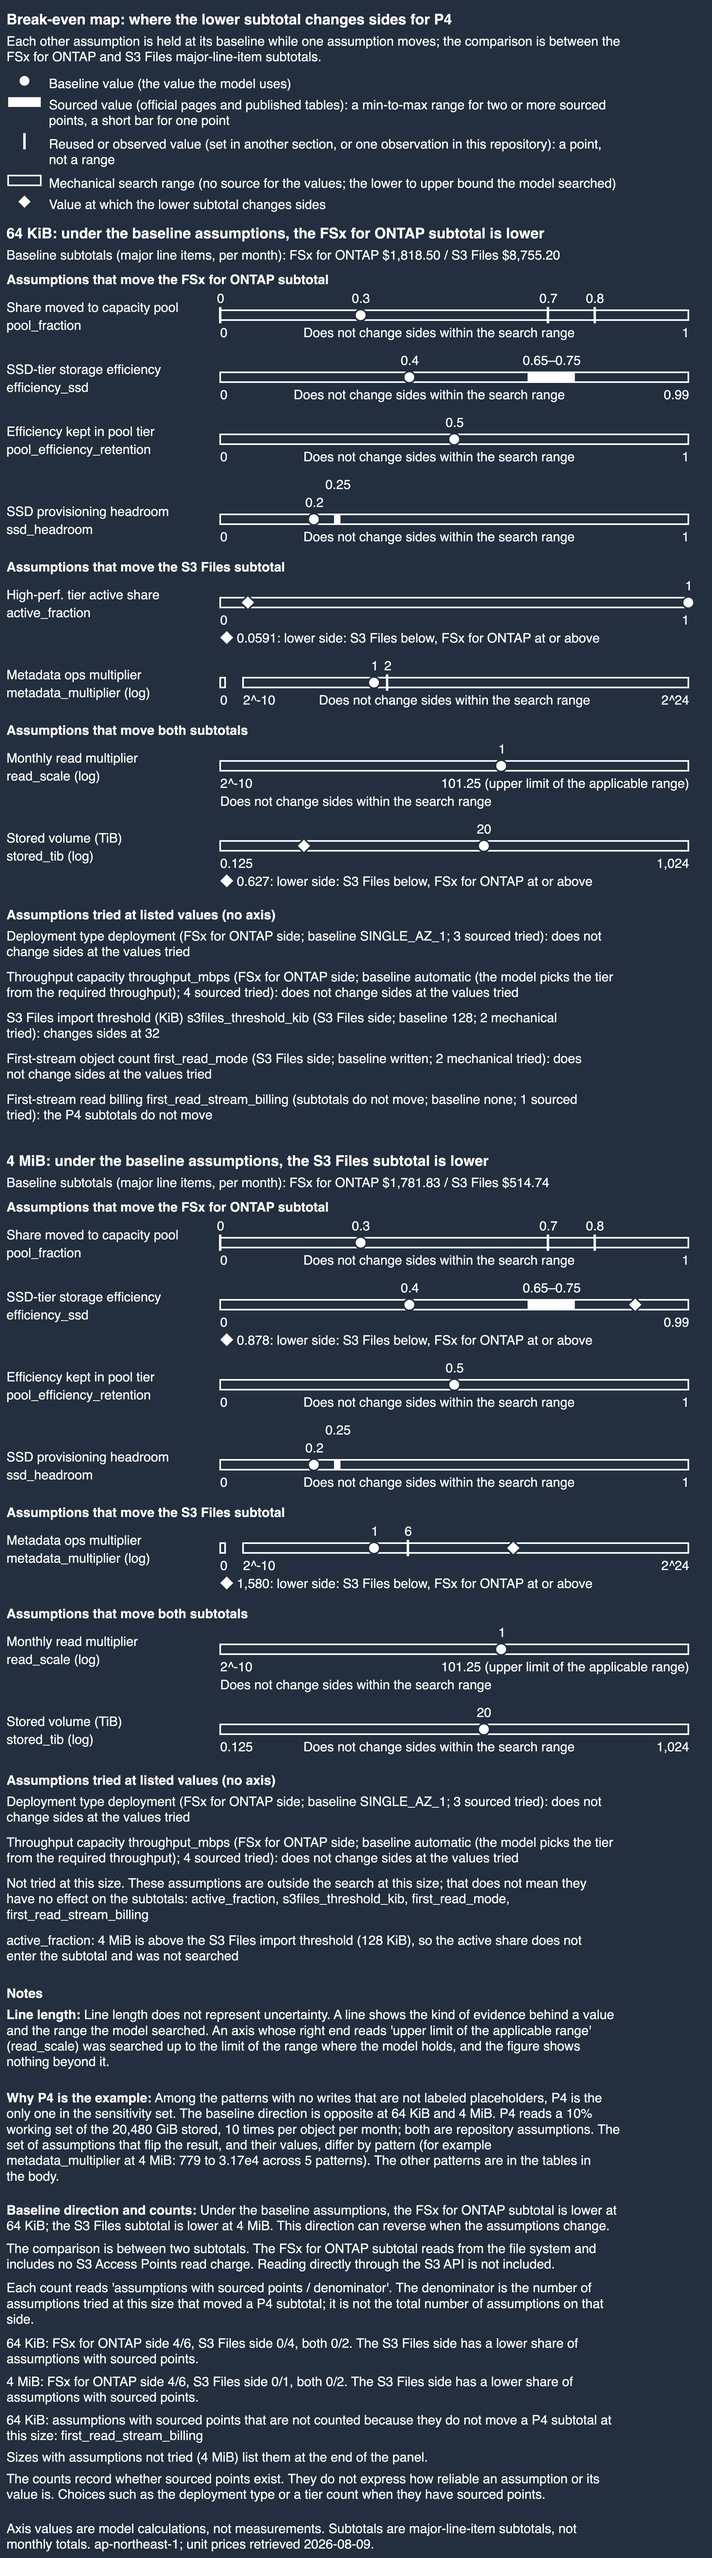
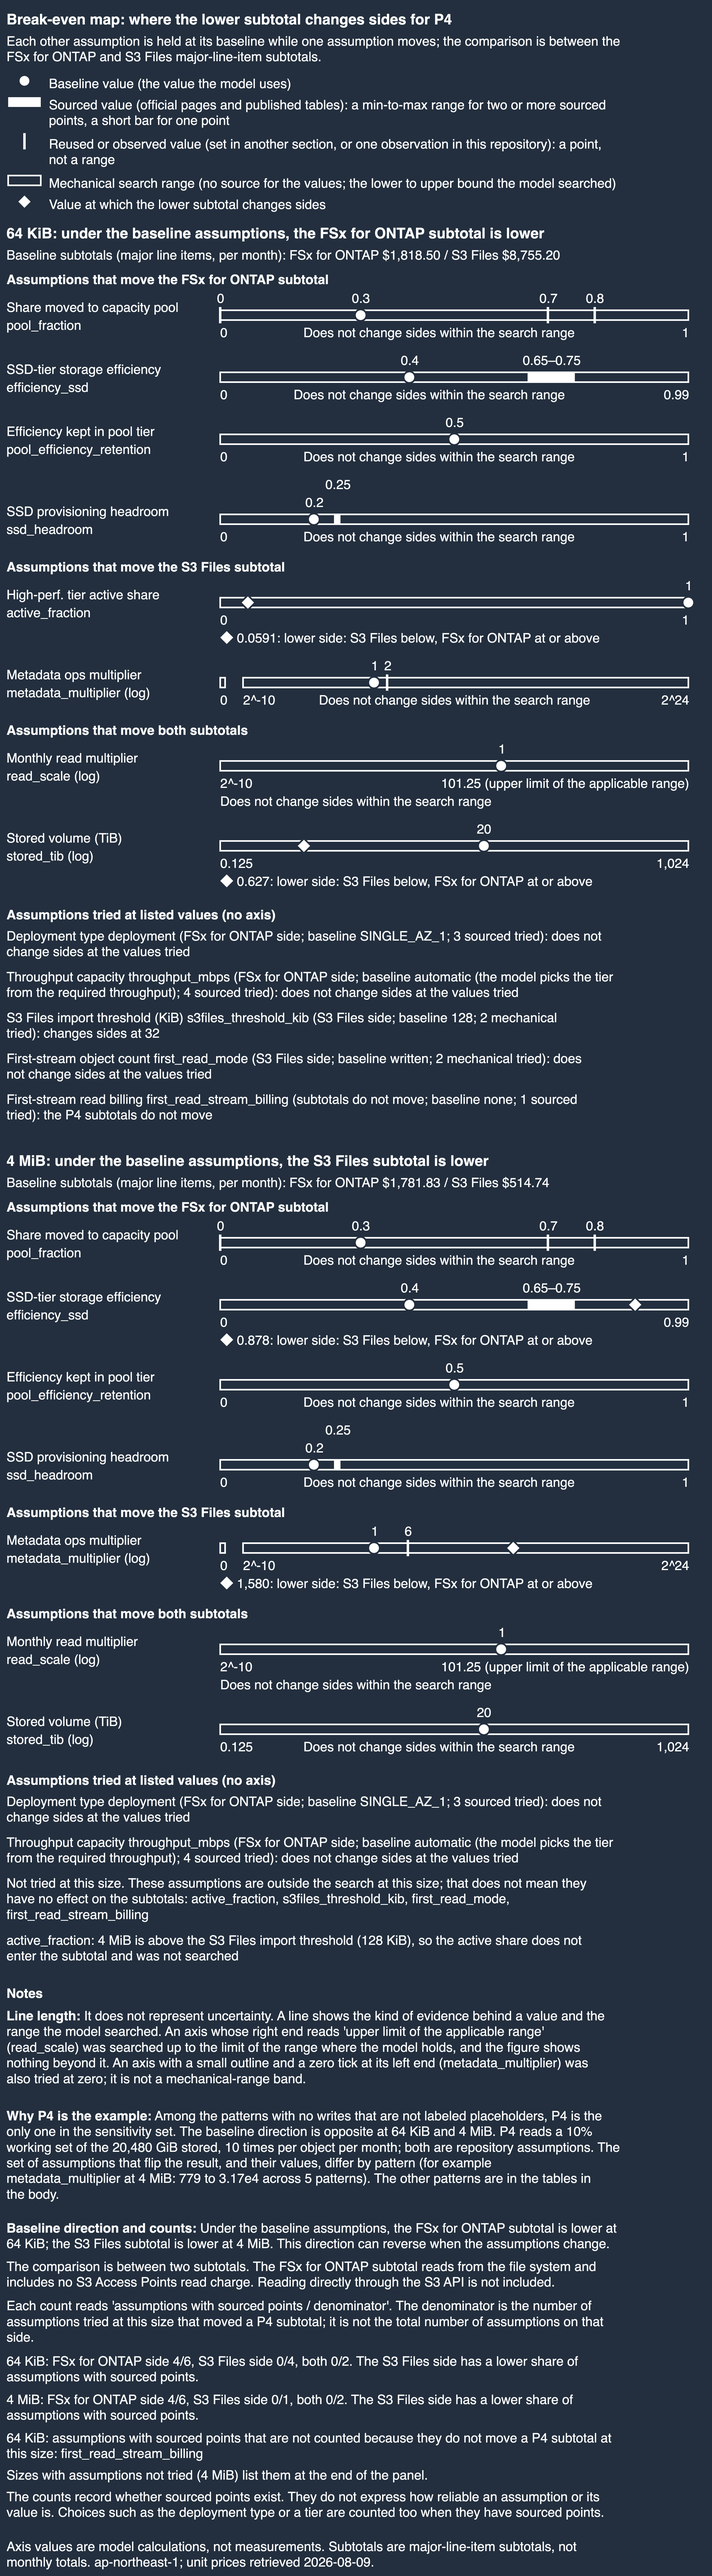
fix: complete EN note sentence and explain zero tick in map
The EN counts note ended without a verb. Reword it, drop the repeated
phrase in the line-length note, shorten the JA subtitle so it no longer
wraps one character, and say in the notes what the zero tick means.

diff --git a/tools/build_breakeven_map.py b/tools/build_breakeven_map.py
@@ -97,7 +97,7 @@ TEXT_NUMBER_ALLOWLIST = {
 TEXT: dict[str, dict[str, str]] = {
     "ja": {
         "title": "損益分岐の地図: P4 の小計の高低が入れ替わる前提の位置",
-        "subtitle": "他の前提を基準に固定し、1 つの前提だけを動かしたときの、FSx for ONTAP と S3 Files の主要費目小計の比較です。",
+        "subtitle": "他の前提は基準に固定し、1 つだけ動かして、FSx for ONTAP と S3 Files の主要費目小計を比べます。",
         "leg_dot": "基準の値（モデルが置いた値）",
         "leg_src": "出典のある値（公式ページ・公表表）。出典の点が 2 つ以上なら最小〜最大の範囲、1 点なら範囲でなく点（短い太線）",
         "leg_pt": "再利用または観測の値（別の節が置いた値、このリポジトリの 1 回の観測）。範囲ではなく点",
@@ -134,6 +134,7 @@ TEXT: dict[str, dict[str, str]] = {
         "notes_head": "注",
         "n1_lead": "線の長さ:",
         "n1": " 線の長さは不確かさの大きさを表しません。線は、値に付いた根拠の種類と、モデルが探索した範囲を示します。",
+        "n1_zero": " 左端に小さな輪郭とゼロの目盛が付いた軸（{axes}）は、値ゼロも試したことを示します。機械的な範囲の帯ではありません。",
         "n1_limit": " 右端に「適用範囲の上限」と付いた軸（{axes}）は、モデルが成り立つ範囲の上限までを探索しており、その先の向きは示していません。",
         "n2_lead": "P4 を例に選んだ理由:",
         "n2": " 書き込みがなく、仮置きと明記されていないパターンのうち、感度の対象にあるのは P4 だけです。",
@@ -195,7 +196,8 @@ TEXT: dict[str, dict[str, str]] = {
         "key_join": ", ",
         "notes_head": "Notes",
         "n1_lead": "Line length:",
-        "n1": " Line length does not represent uncertainty. A line shows the kind of evidence behind a value and the range the model searched.",
+        "n1": " It does not represent uncertainty. A line shows the kind of evidence behind a value and the range the model searched.",
+        "n1_zero": " An axis with a small outline and a zero tick at its left end ({axes}) was also tried at zero; it is not a mechanical-range band.",
         "n1_limit": " An axis whose right end reads 'upper limit of the applicable range' ({axes}) was searched up to the limit of the range where the model holds, and the figure shows nothing beyond it.",
         "n2_lead": "Why P4 is the example:",
         "n2": " Among the patterns with no writes that are not labeled placeholders, P4 is the only one in the sensitivity set.",
@@ -215,7 +217,7 @@ TEXT: dict[str, dict[str, str]] = {
         "n3_less": ". The S3 Files side has a lower share of assumptions with sourced points",
         "n3_excl": "{size}: assumptions with sourced points that are not counted because they do not move a P4 subtotal at this size: {keys}",
         "n3_notried": "Sizes with assumptions not tried ({sizes}) list them at the end of the panel.",
-        "n3_meaning": "The counts record whether sourced points exist. They do not express how reliable an assumption or its value is. Choices such as the deployment type or a tier count when they have sourced points.",
+        "n3_meaning": "The counts record whether sourced points exist. They do not express how reliable an assumption or its value is. Choices such as the deployment type or a tier are counted too when they have sourced points.",
         "foot": "Axis values are model calculations, not measurements. Subtotals are major-line-item subtotals, not monthly totals. {region}; unit prices retrieved {snap}.",
         "val_join": ", ",
     },
@@ -1012,10 +1014,18 @@ class Builder:
             for key in p.axis_keys:
                 if p.truncated(key, sens) and key not in truncated:
                     truncated.append(key)
+        zero_keys = []
+        for p in panels:
+            for key in p.axis_keys:
+                if self.axes[key]["zero_probe"] and key not in zero_keys:
+                    zero_keys.append(key)
         n1 = self.join(
             tx["n1"],
             tx["n1_limit"].format(axes=tx["key_join"].join(truncated))
             if truncated
+            else "",
+            tx["n1_zero"].format(axes=tx["key_join"].join(zero_keys))
+            if zero_keys
             else "",
         )
         out.append((tx["n1_lead"], [n1]))
